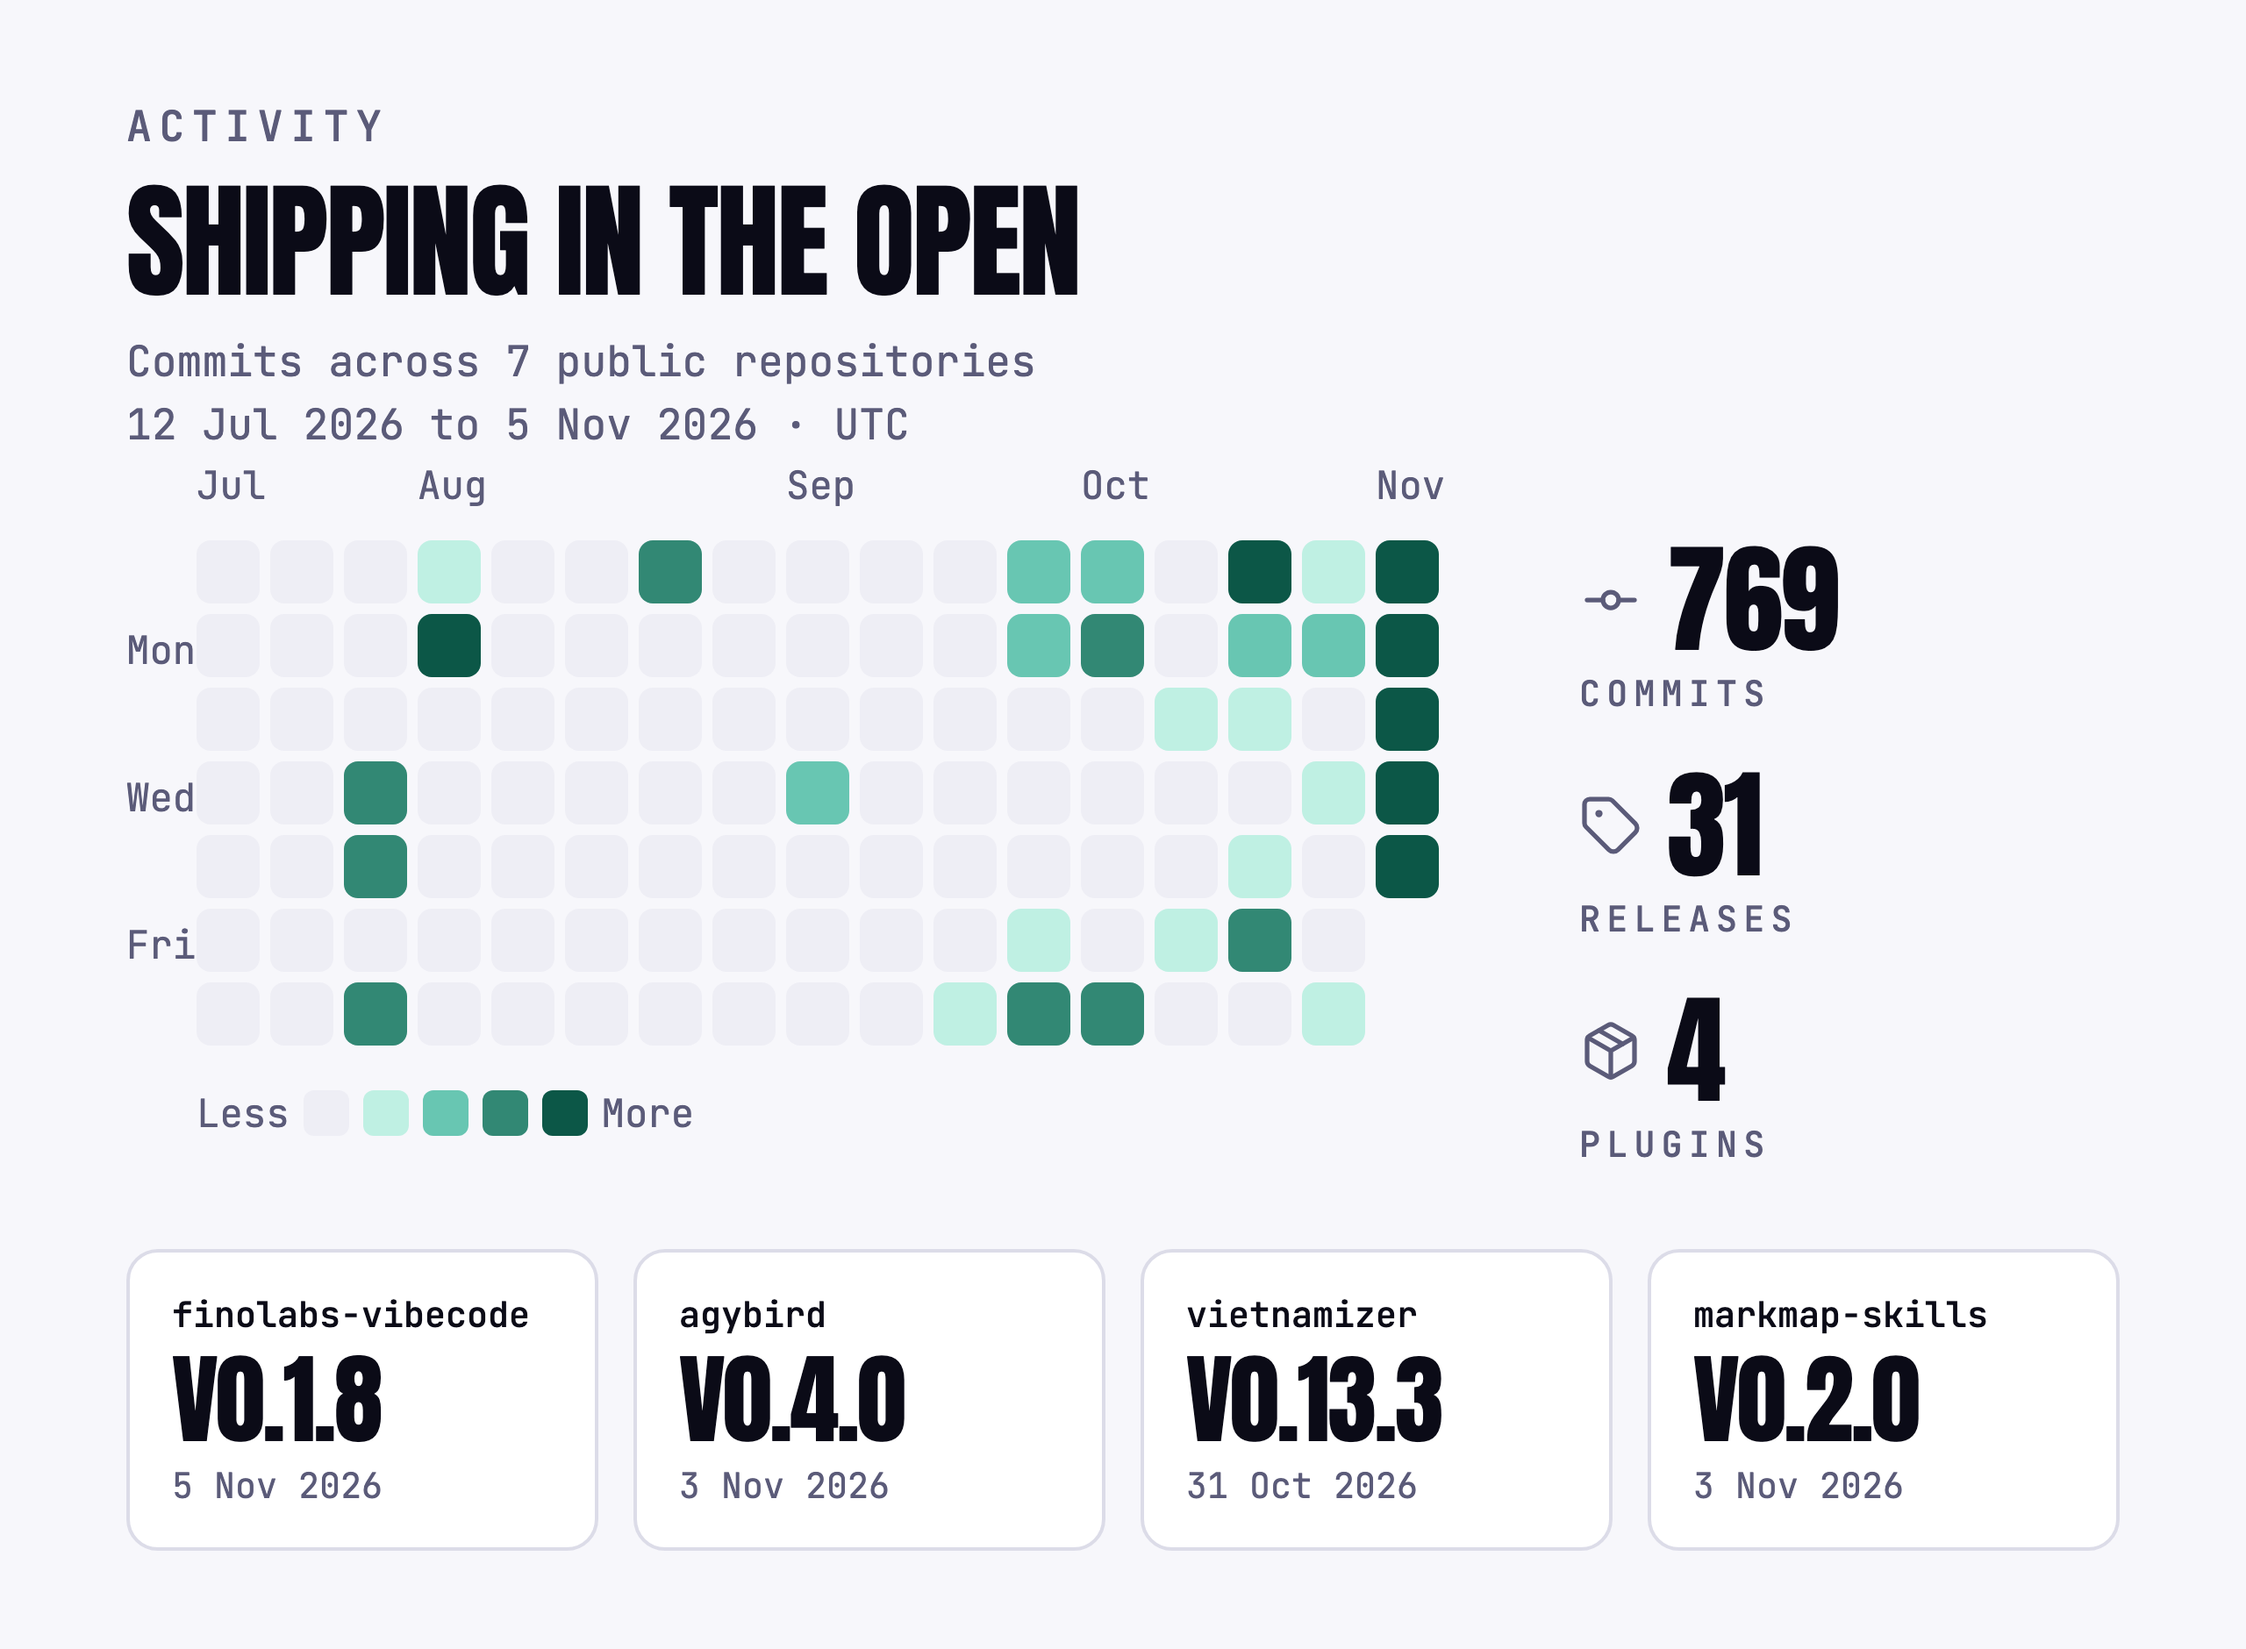
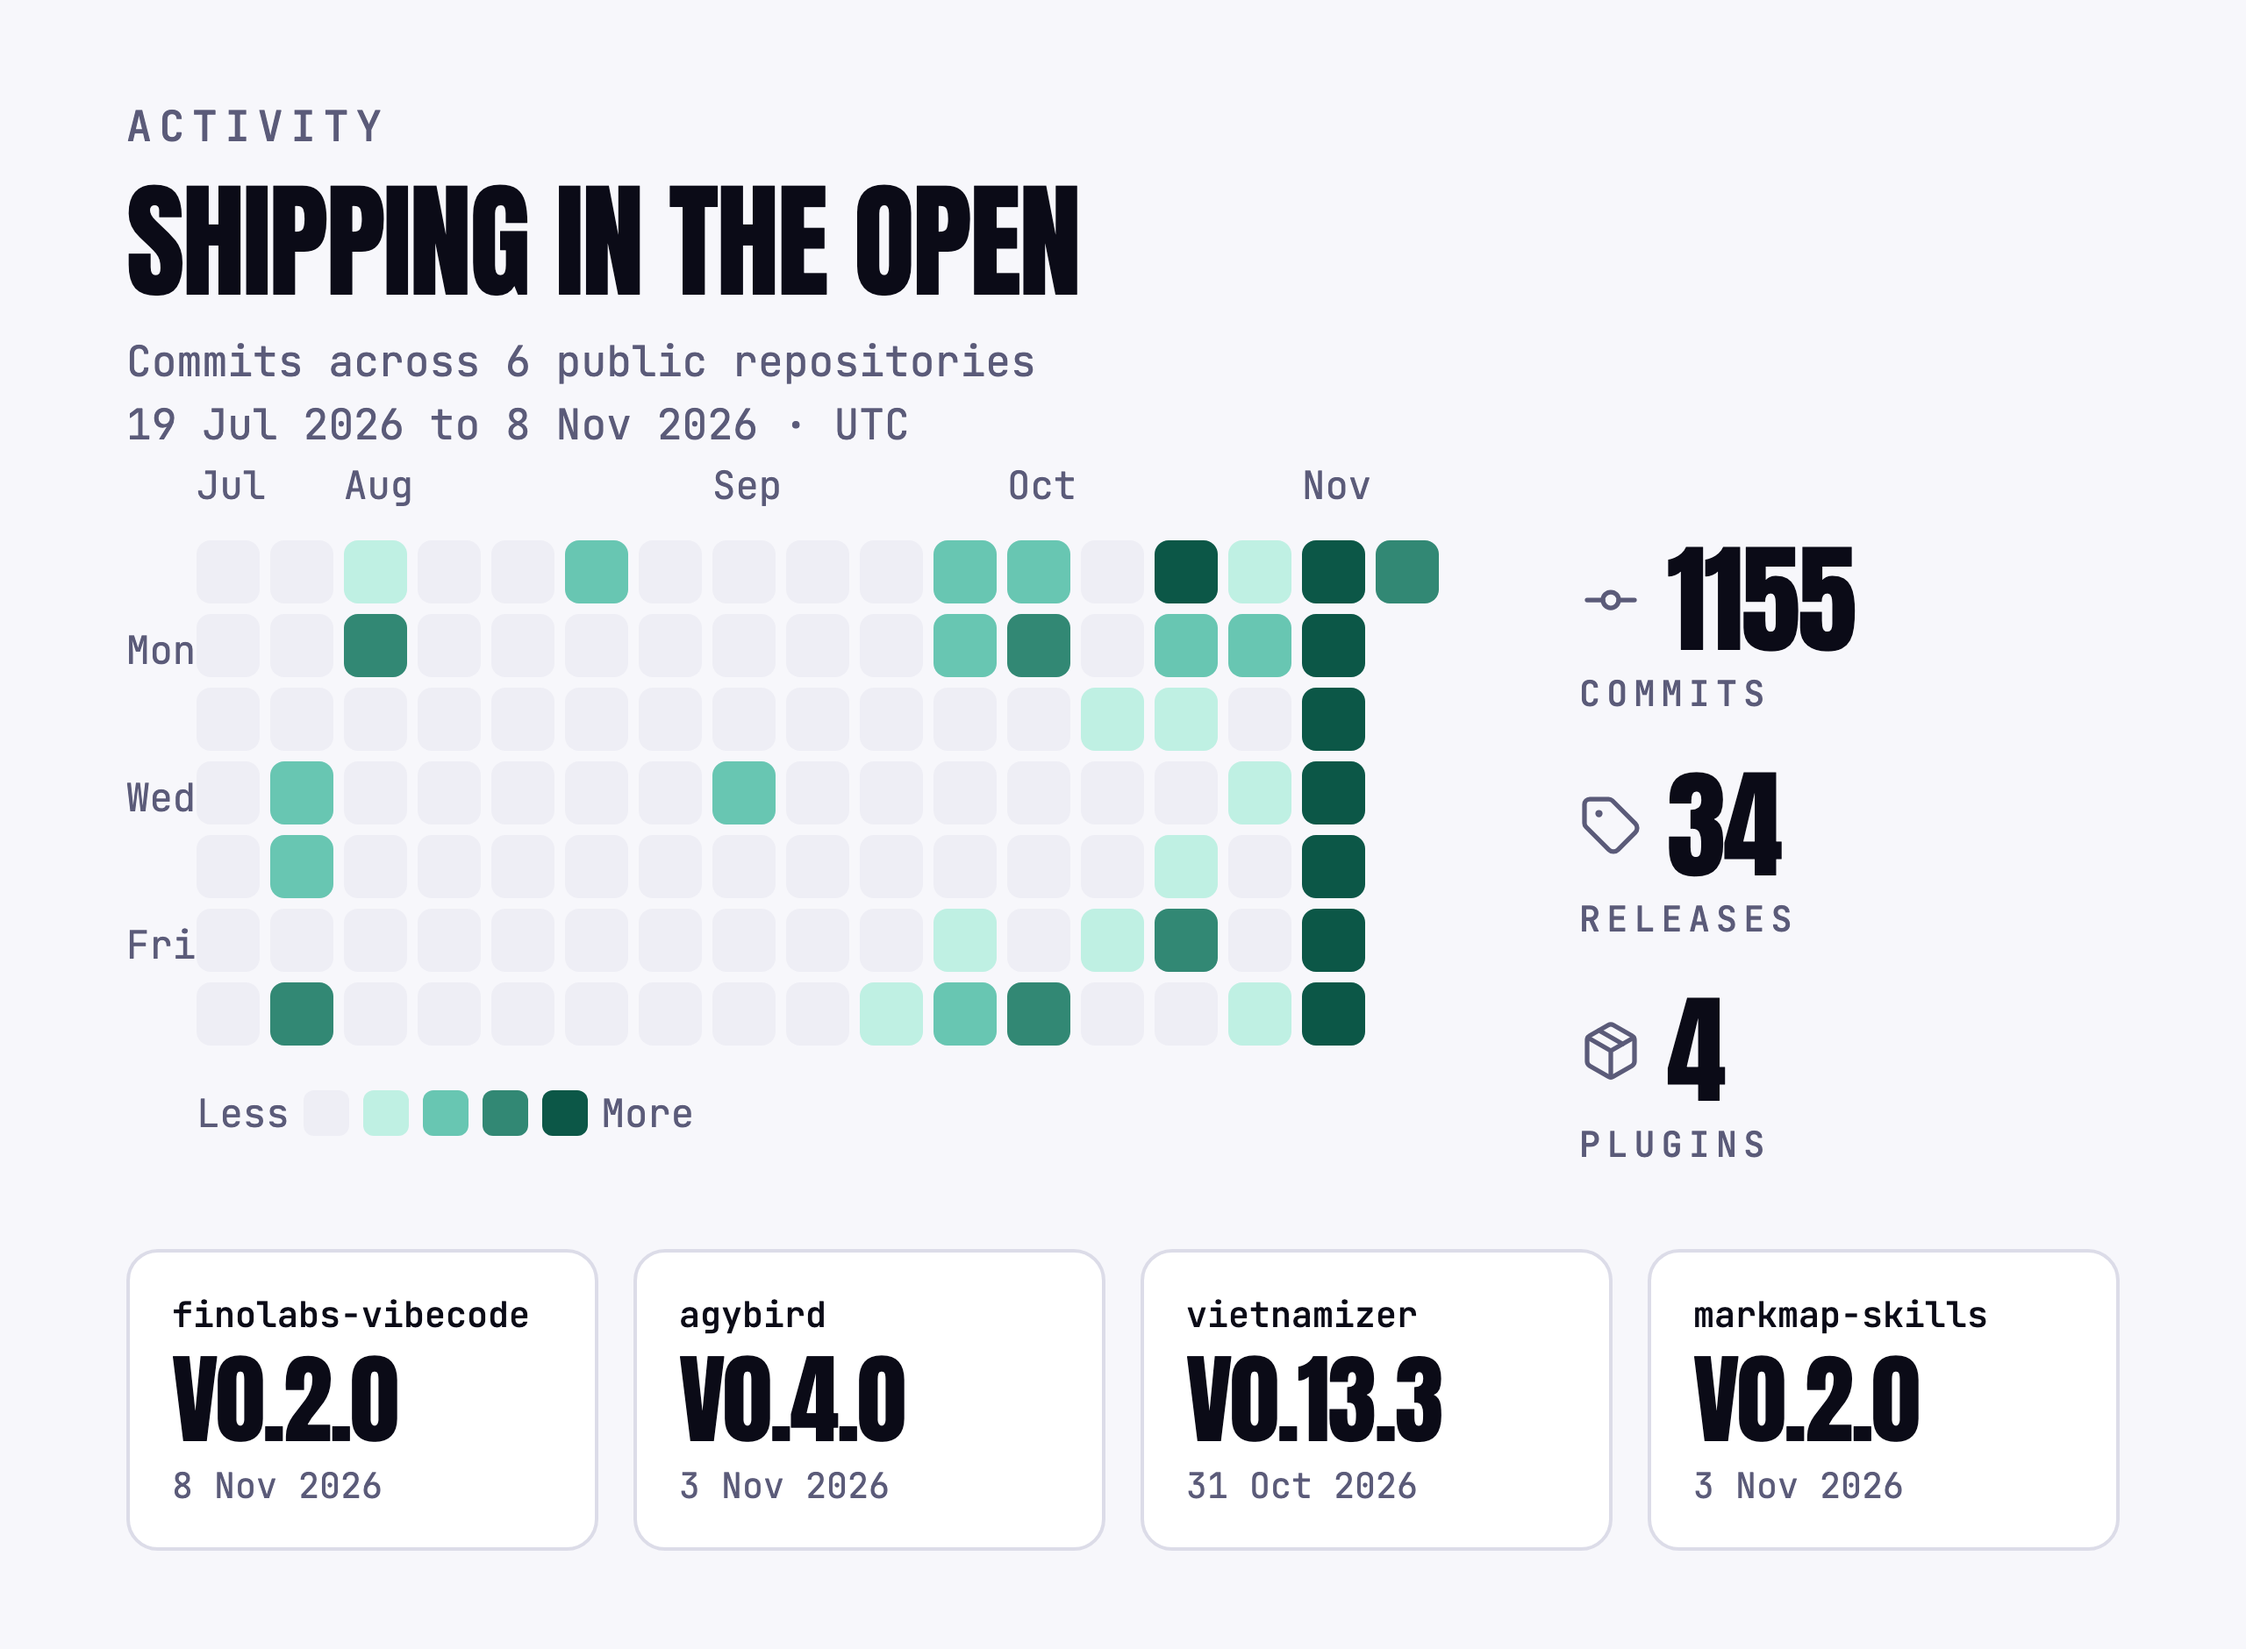
Refresh the activity images and match the vibecode catalog description
Activity data now runs to 8 Nov 2026 (1155 commits, 34 releases, vibecode v0.2.0).
The vibecode row matches the catalog text, as verify-readme requires.

diff --git a/profile/README.md b/profile/README.md
@@ -12,7 +12,7 @@ Plugins for AI coding agents. Every plugin lives in one shared catalog, [`finola
 
 | Plugin | Description |
 | --- | --- |
-| [finolabs-vibecode](https://github.com/finolabs/finolabs-vibecode) | Engineering practice for AI coding agents: routing, delegation, review and security gates, verification, versioning, agent scans and mode settings. |
+| [finolabs-vibecode](https://github.com/finolabs/finolabs-vibecode) | 17 skills and 3 agents (fnl-reviewer, fnl-security-reviewer, fnl-navigator) for review routing, verification, setup, run hygiene and quota on demand. |
 | [agybird](https://github.com/finolabs/agybird) | Delegate code work, image generation or editing, and general tasks to the official Google Antigravity CLI through an existing Gemini subscription. |
 | [vietnamizer](https://github.com/finolabs/vietnamizer) | Biên tập bản nháp, bài viết, README và bản dịch tiếng Việt cho tự nhiên hơn, giữ nguyên ý, dữ kiện, thuật ngữ, code và giọng người viết. |
 | [markmap-skills](https://github.com/finolabs/markmap-skills) | Markmap mindmaps for AI agents with strict cognitive structuring, delivered as clean .mindmap.md files and standalone HTML pages. |
